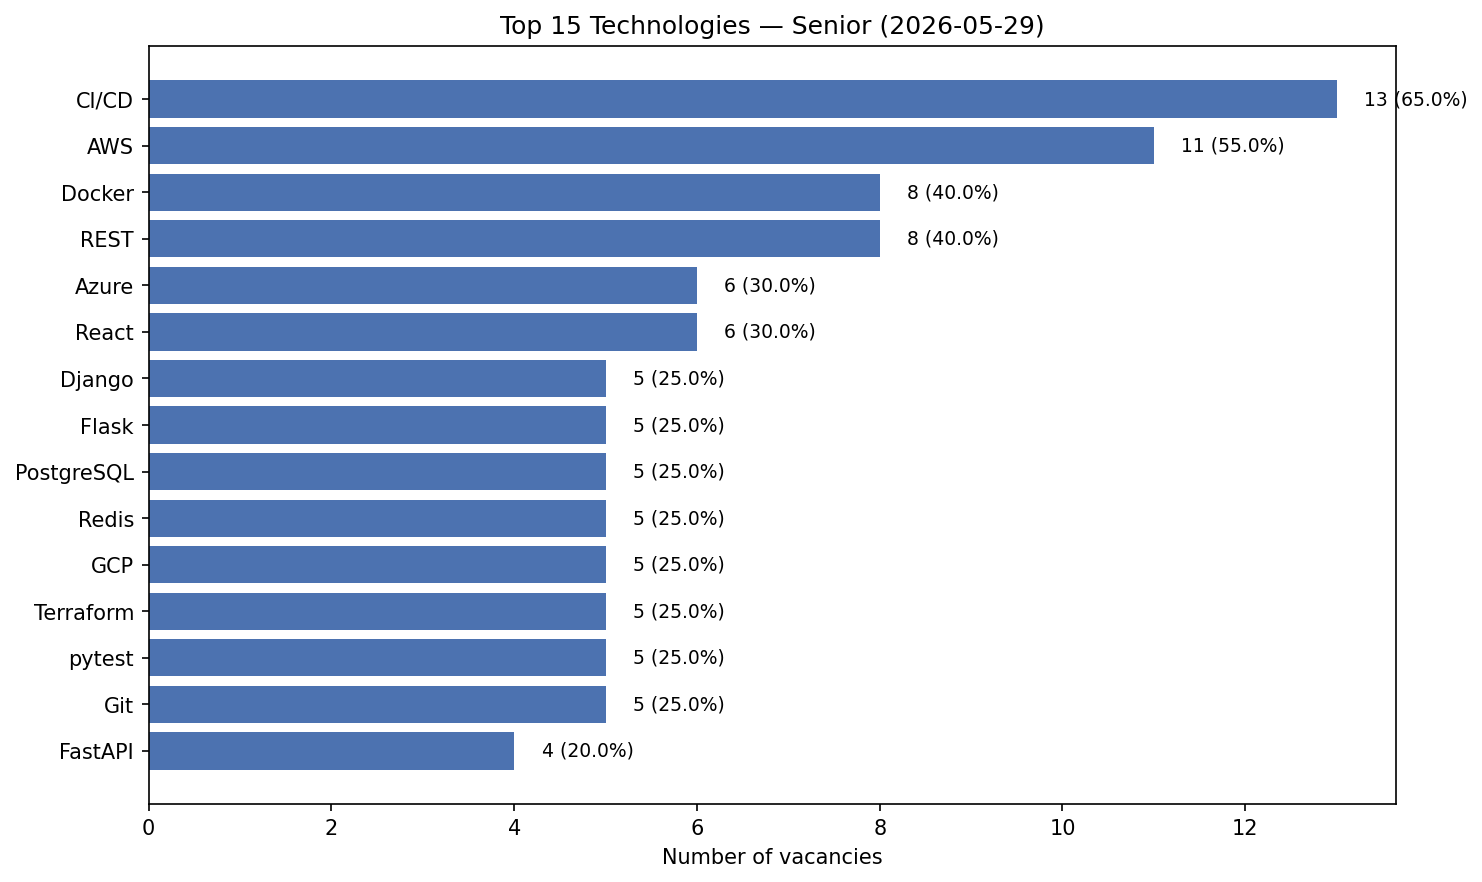
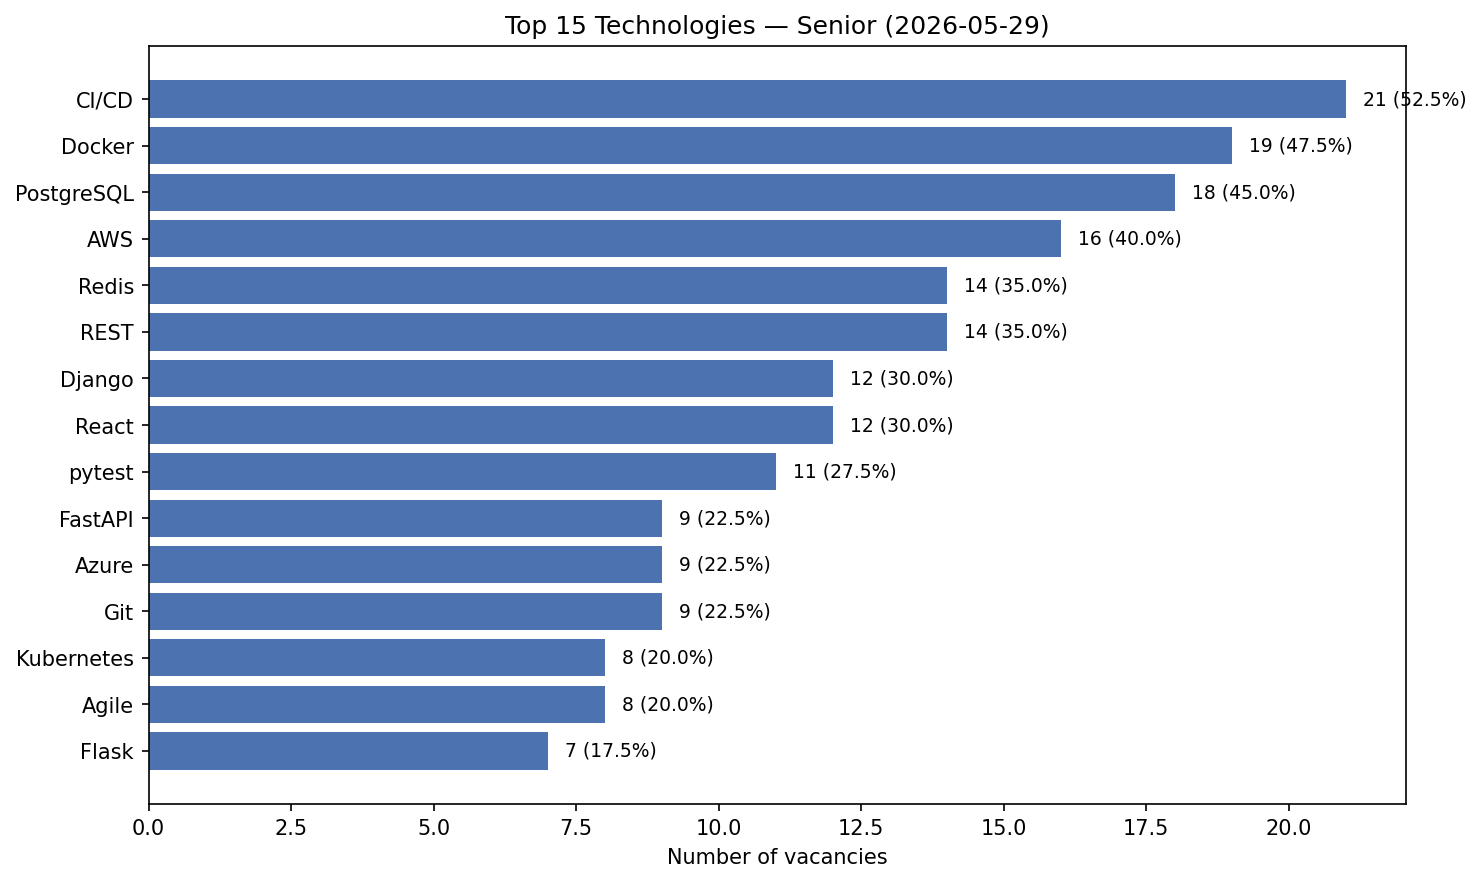
Fix DOU experience filters and document market analysis results.
Use exp range slugs (0-1, 1-3, 3-5, 5plus) for junior/middle/senior scraping and update README with cross-level technology insights and charts.

diff --git a/src/tech_market_analyzer/scraping/dou_scraper.py b/src/tech_market_analyzer/scraping/dou_scraper.py
@@ -20,11 +20,11 @@ from tech_market_analyzer.settings import Settings, get_settings
 
 logger = logging.getLogger(__name__)
 
-# DOU.ua experience filter values (?exp=...) on jobs.dou.ua
-EXPERIENCE_SLUGS: dict[ExperienceLevel, str] = {
-    ExperienceLevel.JUNIOR: "0",       # без досвіду
-    ExperienceLevel.MIDDLE: "1",        # від 1 року
-    ExperienceLevel.SENIOR: "5plus",    # від 5 років (exp=3 often empty for Python)
+# DOU.ua experience ranges (?exp=...) — see jobs.dou.ua vacancy filters
+EXPERIENCE_SLUGS: dict[ExperienceLevel, list[str]] = {
+    ExperienceLevel.JUNIOR: ["0-1"],           # початківці, < 1 року
+    ExperienceLevel.MIDDLE: ["1-3"],            # 1…3 роки
+    ExperienceLevel.SENIOR: ["3-5", "5plus"],  # 3…5 років + 5+ років
 }
 
 
@@ -40,14 +40,14 @@ class DouScraper(BaseScraper, Scraper):
             request_delay_seconds=self.settings.request_delay_seconds,
             max_pages=self.settings.max_pages,
         )
-    def _build_search_url(self, experience_level: ExperienceLevel, page: int = 0) -> str:
-        """Build search URL for a given experience level and page."""
-        slug = EXPERIENCE_SLUGS[experience_level]
+
+    def _build_search_url(self, exp_slug: str, page: int = 0) -> str:
+        """Build search URL for an experience range and page."""
         category = quote_plus(self.settings.category)
         offset = page * 20  # DOU typically shows 20 per page
         return (
             f"{self.base_url}/vacancies/?"
-            f"category={category}&exp={slug}&offset={offset}"
+            f"category={category}&exp={exp_slug}&offset={offset}"
         )
 
     def _build_detail_url(self, vacancy_url: str) -> str:
@@ -61,35 +61,41 @@ class DouScraper(BaseScraper, Scraper):
         all_vacancies: list[Vacancy] = []
         seen_ids: set[str] = set()
 
-        for page in range(self.max_pages):
-            url = self._build_search_url(experience_level, page)
-            logger.info("Fetching page %d: %s", page + 1, url)
+        for exp_slug in EXPERIENCE_SLUGS[experience_level]:
+            logger.info(
+                "Scraping level=%s with exp=%s",
+                experience_level.value,
+                exp_slug,
+            )
+            for page in range(self.max_pages):
+                url = self._build_search_url(exp_slug, page)
+                logger.info("Fetching page %d: %s", page + 1, url)
 
-            html = self.fetch_page(url)
-            raw_list = parse_vacancy_list(html, experience_level)
+                html = self.fetch_page(url)
+                raw_list = parse_vacancy_list(html, experience_level)
 
-            if not raw_list:
-                logger.info("No more vacancies on page %d, stopping.", page + 1)
-                break
+                if not raw_list:
+                    logger.info("No more vacancies on page %d, stopping.", page + 1)
+                    break
 
-            new_on_page = 0
-            for raw in raw_list:
-                if raw["id"] in seen_ids:
-                    continue
-                seen_ids.add(raw["id"])
+                new_on_page = 0
+                for raw in raw_list:
+                    if raw["id"] in seen_ids:
+                        continue
+                    seen_ids.add(raw["id"])
 
-                # Fetch detail page only for new vacancies (minimize requests)
-                detail_url = self._build_detail_url(raw["url"])
-                detail_html = self.fetch_page(detail_url)
-                raw["description"] = parse_vacancy_detail(detail_html)
+                    # Fetch detail page only for new vacancies (minimize requests)
+                    detail_url = self._build_detail_url(raw["url"])
+                    detail_html = self.fetch_page(detail_url)
+                    raw["description"] = parse_vacancy_detail(detail_html)
 
-                all_vacancies.append(
-                    build_vacancy(raw, experience_level, source="dou.ua")
-                )
-                new_on_page += 1
+                    all_vacancies.append(
+                        build_vacancy(raw, experience_level, source="dou.ua")
+                    )
+                    new_on_page += 1
 
-            if new_on_page == 0:
-                break
+                if new_on_page == 0:
+                    break
 
         logger.info(
             "Scraped %d vacancies for level=%s",

diff --git a/tests/test_dou_scraper.py b/tests/test_dou_scraper.py
@@ -1,0 +1,22 @@
+"""Tests for DOU scraper URL building."""
+
+from tech_market_analyzer.domain.models import ExperienceLevel
+from tech_market_analyzer.scraping.dou_scraper import DouScraper, EXPERIENCE_SLUGS
+
+
+def test_experience_slugs_use_dou_ranges():
+    assert EXPERIENCE_SLUGS[ExperienceLevel.JUNIOR] == ["0-1"]
+    assert EXPERIENCE_SLUGS[ExperienceLevel.MIDDLE] == ["1-3"]
+    assert EXPERIENCE_SLUGS[ExperienceLevel.SENIOR] == ["3-5", "5plus"]
+
+
+def test_build_search_url_uses_category_and_exp_range():
+    scraper = DouScraper()
+    url = scraper._build_search_url("1-3", page=0)
+    assert "category=Python" in url
+    assert "exp=1-3" in url
+    assert "offset=0" in url
+
+    url_page_2 = scraper._build_search_url("0-1", page=2)
+    assert "exp=0-1" in url_page_2
+    assert "offset=40" in url_page_2

diff --git a/README.md b/README.md
@@ -50,8 +50,19 @@ cp .env.example .env
 ### Повний pipeline
 
 ```bash
-tech-analyzer pipeline --all-levels
+# scrape → analyze для junior, middle, senior
+tech-analyzer pipeline --all-levels --force
 ```
+
+Приклад виводу після запуску (2026-05-29):
+
+| Рівень | Фільтр DOU | Вакансій | Топ-3 технології |
+|--------|------------|----------|------------------|
+| junior | `exp=0-1` | 7 | Docker, Git, PostgreSQL |
+| middle | `exp=1-3` | 20 | PostgreSQL, Docker, FastAPI |
+| senior | `exp=3-5` + `exp=5plus` | 40 | CI/CD, Docker, PostgreSQL |
+
+Файли: `data/raw/2026-05-29_{level}.json` та `data/results/2026-05-29/{level}_*`.
 
 ### Окремо: Scraping
 
@@ -89,29 +100,56 @@ tech-analyzer history 2026-05-20 2026-05-29 --level senior
 - `{level}_bar_chart.png` — діаграма топ-технологій
 - `{level}_stats.json` — статистика у JSON
 
-### Діаграма (senior, 2026-05-29, 20 вакансій)
+### Аналіз ринку (знімок 2026-05-29, [jobs.dou.ua](https://jobs.dou.ua))
 
-![Top technologies — Senior](docs/images/senior_bar_chart.png)
+**Загальні висновки:**
 
-### Топ-10 технологій (вивід CLI)
+- **Docker** і **PostgreSQL** — найстабільніший попит: присутні у топ-3 на всіх рівнях досвіду.
+- **CI/CD** різко зростає з рівнем: 57% (junior) → 15% (middle) → **53% (senior)** — для senior це №1 технологія.
+- **FastAPI** найпопулярніший серед middle (40%), тоді як **Django** сильніший на senior (30%).
+- Junior-ринок малий (7 вакансій), але вже вимагає DevOps-базу: Docker (86%), Git (86%), AWS (57%).
+
+**Діаграми по рівнях:**
+
+| Junior (7) | Middle (20) | Senior (40) |
+|:---:|:---:|:---:|
+| ![Junior](docs/images/junior_bar_chart.png) | ![Middle](docs/images/middle_bar_chart.png) | ![Senior](docs/images/senior_bar_chart.png) |
+
+### Топ-5 технологій по рівнях
+
+**Junior** (`exp=0-1`, 7 вакансій):
 
 ```
-Top 10 technologies:
-   1. CI/CD                  13  (65.0%)
-   2. AWS                    11  (55.0%)
-   3. Docker                  8  (40.0%)
-   4. REST                    8  (40.0%)
-   5. Azure                   6  (30.0%)
-   6. React                   6  (30.0%)
-   7. Django                  5  (25.0%)
-   8. Flask                   5  (25.0%)
-   9. PostgreSQL              5  (25.0%)
-  10. Redis                   5  (25.0%)
+   1. Docker        6  (85.7%)
+   2. Git           6  (85.7%)
+   3. PostgreSQL    5  (71.4%)
+   4. AWS           4  (57.1%)
+   5. CI/CD         4  (57.1%)
+```
+
+**Middle** (`exp=1-3`, 20 вакансій):
+
+```
+   1. PostgreSQL    9  (45.0%)
+   2. Docker        9  (45.0%)
+   3. FastAPI       8  (40.0%)
+   4. Git           8  (40.0%)
+   5. Linux         8  (40.0%)
+```
+
+**Senior** (`exp=3-5` + `exp=5plus`, 40 вакансій):
+
+```
+   1. CI/CD        21  (52.5%)
+   2. Docker       19  (47.5%)
+   3. PostgreSQL   18  (45.0%)
+   4. AWS          16  (40.0%)
+   5. Redis        14  (35.0%)
 ```
 
 > **Примітка про DOU.ua:** фільтр категорії використовує `?category=Python` (не `search`).
-> Для рівнів досвіду — `exp=0` (junior), `exp=1` (middle), `exp=5plus` (senior).
-> На момент збору даних junior/middle можуть повертати 0 вакансій — це залежить від поточного ринку, а не від парсера.
+> Для рівнів досвіду DOU використовує діапазони: `exp=0-1` (junior), `exp=1-3` (middle),
+> `exp=3-5` та `exp=5plus` (senior — обидва фільтри, результати об'єднуються).
 
 ## Конфігурація
 